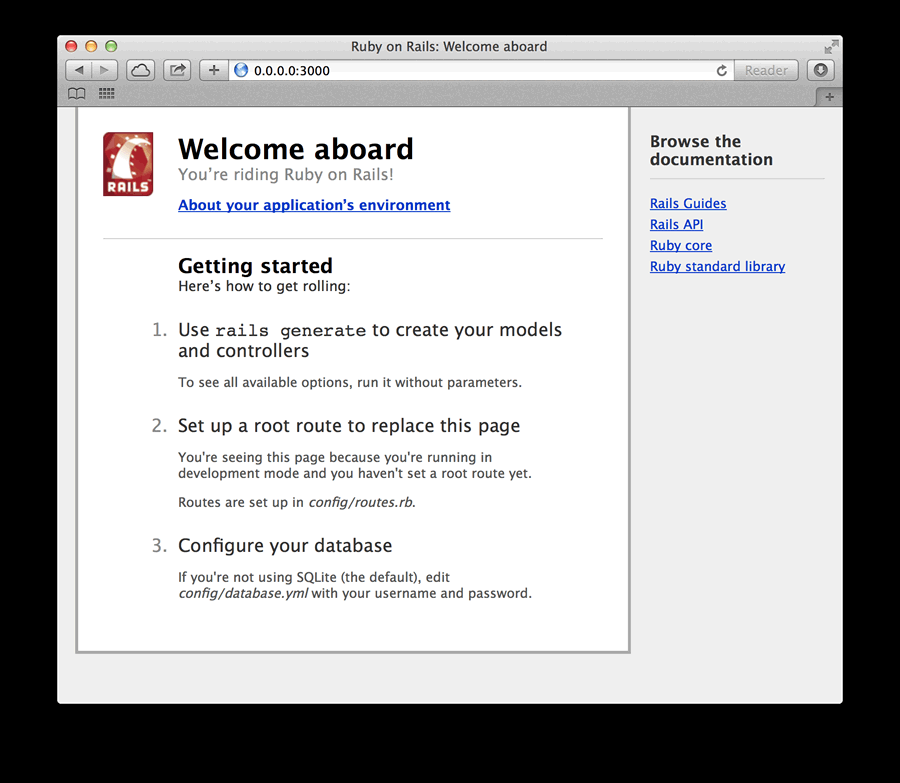
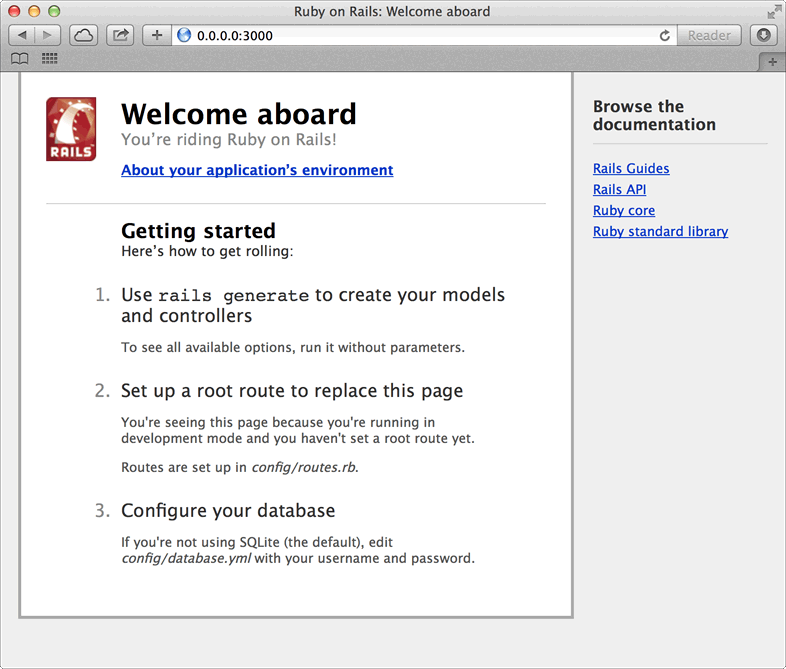
Updated png file

diff --git a/rails/mac/10_9/aptana_check.html b/rails/mac/10_9/aptana_check.html
@@ -60,7 +60,7 @@
 </a></p>
 <p>&nbsp;</p>
 <p>以下のような、&quot;Welcome aboard&quot;と表示されていれば、正常にセットアップが完了したことになります。</p>
-<p><img src="images/aptana_browser.png" alt="" width="900" height="783"></p>
+<p><img src="images/aptana_browser.png" alt="" width="786" height="669"></p>
 <p>&nbsp;</p>
 <p>最後に、Aptana Studioを終了します。</p>
 <p><img src="images/aptana_quit.png" alt="" width="330" height="286"></p>
